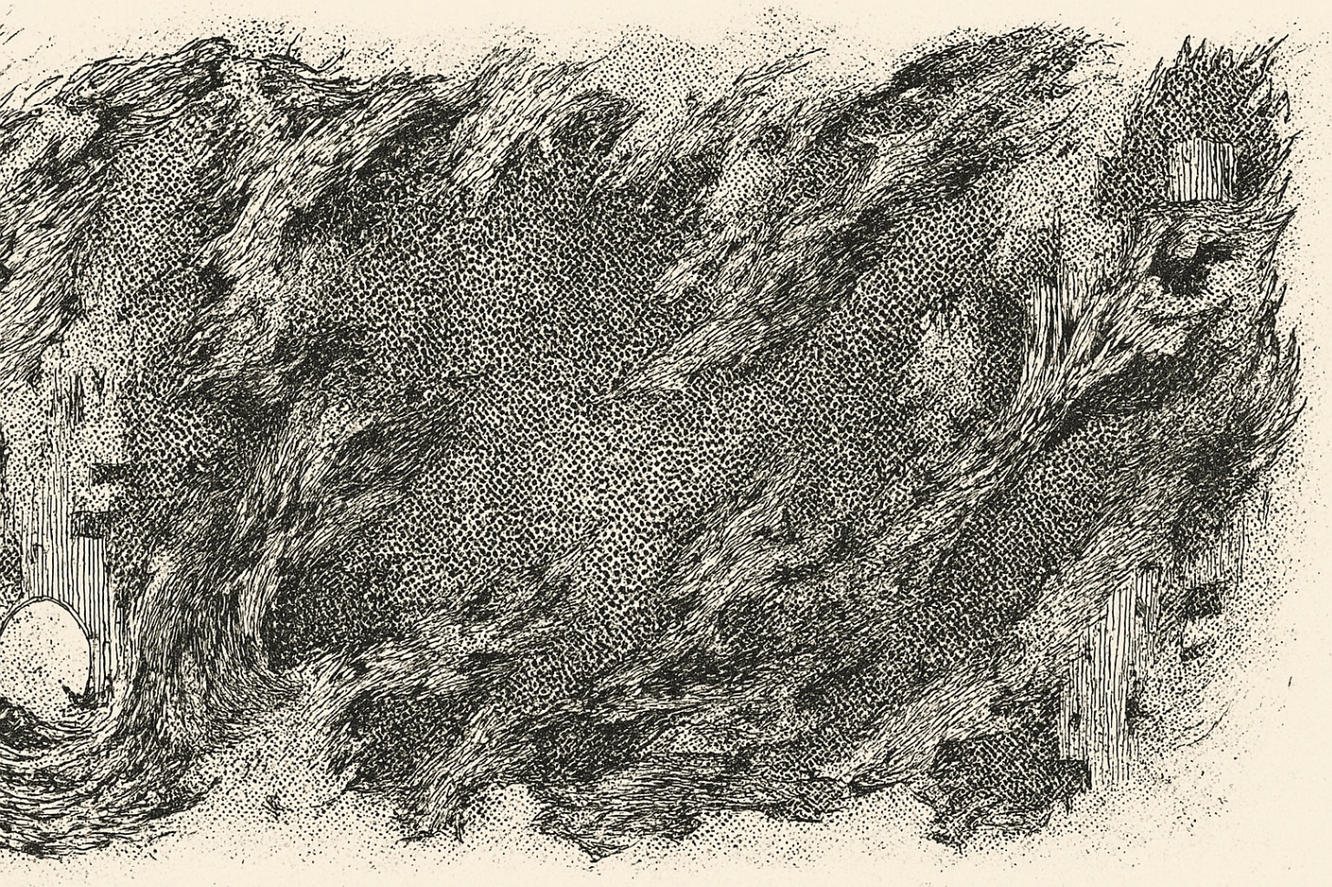
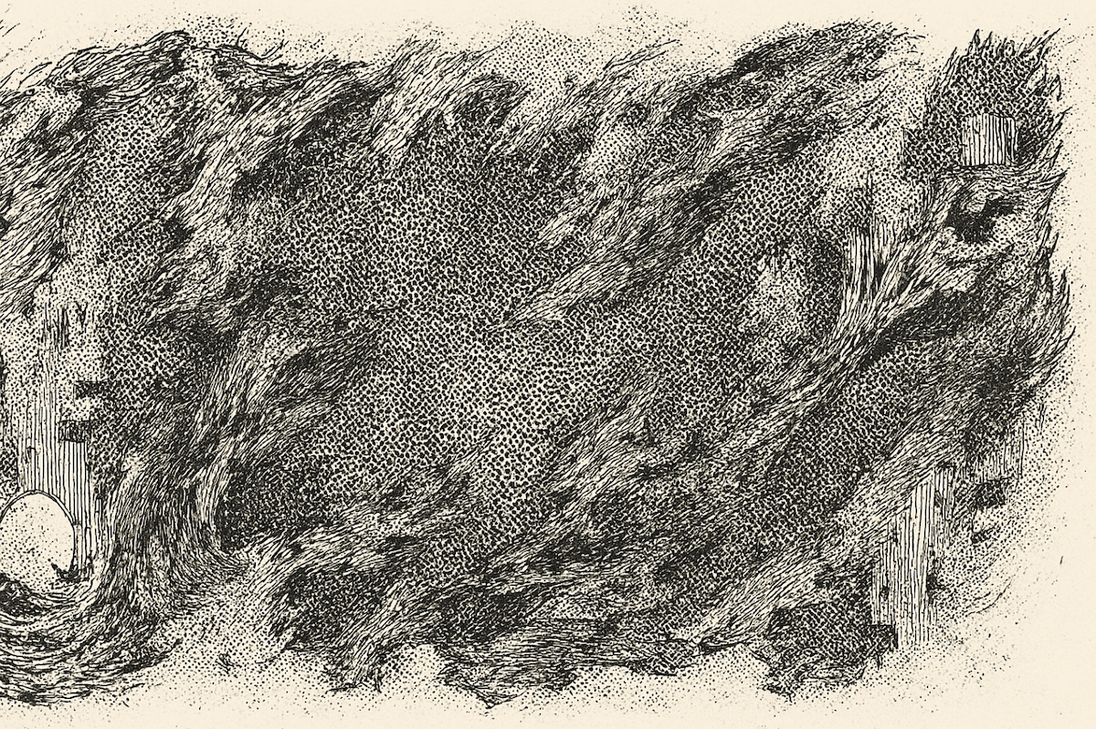
Image compression

Changed region(s): [[0.0, 0.03, 0.9867, 0.9612]]

diff --git a/src/components/home/HeroSection.tsx b/src/components/home/HeroSection.tsx
@@ -8,7 +8,7 @@ const HeroSection = () => {
       {/* Background Image */}
       <div className="absolute inset-0 z-0 opacity-20">
         <img 
-          src="/lovable-uploads/3f0413f6-31be-4eb3-bf38-e53d02dc0532.png" 
+          src="/lovable-uploads/3f0413f6-31be-4eb3-bf38-e53d02dc0532.jpg" 
           alt="Abstract Technological Pattern" 
           className="w-full h-full object-cover object-center"
         />
@@ -20,7 +20,7 @@ const HeroSection = () => {
           <div className="space-y-6 animate-fade-in">
             <div className="inline-block mb-4">
               <div className="px-4 py-1 rounded-full bg-collective-black/10 border border-collective-black/20 text-sm text-collective-black shadow-[0_0_15px_rgba(255,255,255,0.5)]">
-                <span className="logo-text">GOOD! Collective</span>
+                Code Collective
               </div>
             </div>
             <h1 className="text-4xl md:text-5xl lg:text-6xl font-bold leading-tight text-collective-black drop-shadow-[0_0_15px_rgba(255,255,255,0.5)]">

diff --git a/src/index.css b/src/index.css
@@ -1,5 +1,5 @@
 
-@import url('https://fonts.googleapis.com/css2?family=Inter:wght@300;400;500;600;700&family=Space+Mono:wght@400;700&family=Oswald:wght@400;500;600;700&display=swap');
+@import url('https://fonts.googleapis.com/css2?family=Inter:wght@300;400;500;600;700&family=Space+Mono:wght@400;700&display=swap');
 
 @tailwind base;
 @tailwind components;
@@ -108,9 +108,5 @@
     background-repeat: no-repeat;
     background-position: center;
     background-size: contain;
-  }
-
-  .logo-text {
-    @apply font-oswald font-bold tracking-tighter;
   }
 }

diff --git a/src/components/about/MissionSection.tsx b/src/components/about/MissionSection.tsx
@@ -44,7 +44,7 @@ const MissionSection: React.FC = () => {
           </div>
           <div className="order-first md:order-last">
             <img 
-              src="/lovable-uploads/ec966130-b689-4bd5-8c0b-d12d318807fb.png" 
+              src="/lovable-uploads/ec966130-b689-4bd5-8c0b-d12d318807fb.jpg" 
               alt="Sustainable technology illustration with security, code, and nature icons" 
               className="rounded-lg w-full max-w-md mx-auto"
             />

diff --git a/src/pages/Services.tsx b/src/pages/Services.tsx
@@ -11,7 +11,7 @@ const Services = () => {
         {/* Background Image */}
         <div className="absolute inset-0 z-0 opacity-20">
           <img 
-            src="/lovable-uploads/3f0413f6-31be-4eb3-bf38-e53d02dc0532.png" 
+            src="/lovable-uploads/3f0413f6-31be-4eb3-bf38-e53d02dc0532.jpg" 
             alt="Abstract Technological Pattern" 
             className="w-full h-full object-cover object-center"
           />

diff --git a/src/components/about/HeroSection.tsx b/src/components/about/HeroSection.tsx
@@ -7,7 +7,7 @@ const HeroSection: React.FC = () => {
       {/* Background Image */}
       <div className="absolute inset-0 z-0 opacity-20">
         <img 
-          src="/lovable-uploads/3f0413f6-31be-4eb3-bf38-e53d02dc0532.png" 
+          src="/lovable-uploads/3f0413f6-31be-4eb3-bf38-e53d02dc0532.jpg" 
           alt="Abstract Technological Pattern" 
           className="w-full h-full object-cover object-center"
         />

diff --git a/tailwind.config.ts b/tailwind.config.ts
@@ -21,8 +21,7 @@ export default {
 		extend: {
 			fontFamily: {
 				mono: ['Space Mono', 'monospace'],
-				sans: ['Inter', 'sans-serif'],
-				oswald: ['Oswald', 'Impact', 'sans-serif'],
+				sans: ['Inter', 'sans-serif']
 			},
 			colors: {
 				border: 'hsl(var(--border))',
